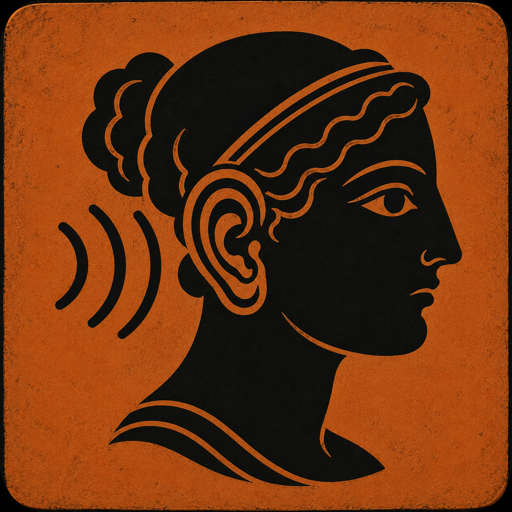
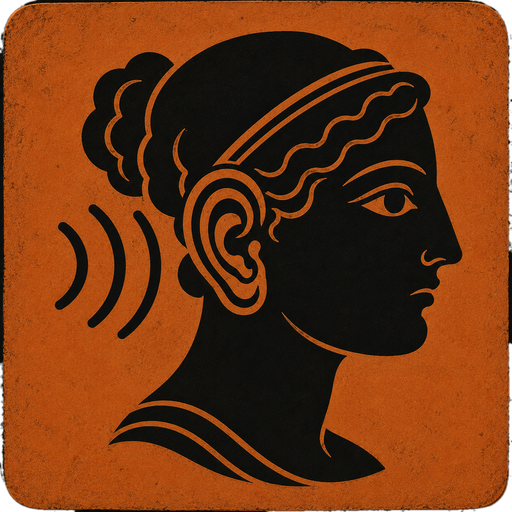
Cantos transparentes no ícone e imagem fora da faixa do botão do Colab
O "✓" que aparecia sobre a testa não estava no PNG: era o botão
header-section-toggle do Colab (keyboard_arrow_down), desenhado por cima
porque align="left" punha a imagem dentro da faixa reservada a ele.
Sem o float, a imagem sai dessa faixa.

Os cantos deixam de ser preto chapado: o recorte percorre o preto
conectado à borda externa, seguindo a curva real em vez de um raio
estimado, e o desenho (também preto, mas cercado de laranja) não é
alcançado.

diff --git a/README.md b/README.md
@@ -1,12 +1,8 @@
-<img src="akoe.png" width="140" align="left" hspace="20" vspace="6">
+<img src="akoe.png" width="140">
 
 # Akoé
 
-*Do grego ἀκοή — «escuta».*
-
 [![Open in Colab](https://colab.research.google.com/assets/colab-badge.svg)](https://colab.research.google.com/github/claudiogonzaga/akoe/blob/main/Akoe.ipynb)
-
-<br clear="left">
 
 
 Notebook Colab que transcreve automaticamente todos os arquivos de áudio e vídeo de uma pasta do Google Drive usando o modelo **Whisper** (OpenAI) ou modelos compatíveis do HuggingFace.
